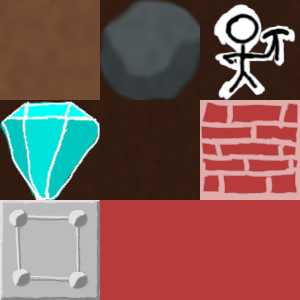
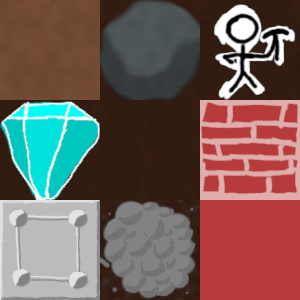
Added explosions when things hit rockford.

Changed region(s): [[0.33, 0.66, 0.69, 1.0]]

diff --git a/game_state.c b/game_state.c
@@ -65,6 +65,7 @@ void init_game(game_state *game, int width, int height, float zoom,
   game->textures[AIR] = load_sub_texture(game, AIR);
   game->textures[BRICK] = load_sub_texture(game, BRICK);
   game->textures[STEEL] = load_sub_texture(game, STEEL);
+  game->textures[DUST] = load_sub_texture(game, DUST);
 
 	// Rendering thing
   game->cam = create_camera(0, 0, width, height, 0, 0, 0.4f);
@@ -79,23 +80,42 @@ void destroy_game(game_state *game) {
   al_destroy_event_queue(game->queue);
 }
 
+static void kill_rockford(game_state *game) {
+	explode_at(game->curr_map.rockford_x, game->curr_map.rockford_y, game->curr_map);
+	// TODO:
+	// end_game(game->g);
+}
+
 static void apply_physics(int x, int y, game_state *game) {
   // If rock over rock -> rock over falls if possible
   // If rock over dirt -> rock stays
   // If rock over air -> rock moves down
   // If rock over rockford -> if rock in already in movement -> rockford dies ->
   // else -> rock stays
+	
+  // If we already changed current this frame we don't change it again.
+  if (get_block_property(x, y, HAS_CHANGED, game->curr_map)) {
+    return;
+  }
+
+	if (get_block_property(x, y, DOES_VANISH, game->curr_map)) {
+		set_block_at(x, y, AIR, game->curr_map);
+		set_block_property(x, y, HAS_CHANGED, game->curr_map);
+		return;
+	}
 
   // We only change blocks that have gravity.
   if (!get_block_property(x, y, HAS_GRAVITY, game->curr_map)) {
     return;
   }
-  // write_block(stderr, x, y, game->curr_map);
 
-  // If we already changed current this frame we don't change it again.
-  if (get_block_property(x, y, HAS_CHANGED, game->curr_map)) {
-    return;
-  }
+	if (game->curr_map.rockford_x == x &&
+			game->curr_map.rockford_y == y + 1 &&
+			get_block_property(x, y, IN_MOVEMENT, game->curr_map)) {
+		// Rockford is below and the current block is going to kill him :(
+		kill_rockford(game);
+		return;
+	}
 
   // If below don't collides we can move current down
   if (!get_block_property(x, y + 1, IT_COLLIDES, game->curr_map)) {
@@ -128,6 +148,7 @@ static void apply_physics(int x, int y, game_state *game) {
     return;
   }
 }
+
 void update_physics(game_state *game) {
   // We make the restriction that every map has a border of steel,
   // which don't need to be updated.

diff --git a/map.c b/map.c
@@ -13,6 +13,7 @@ char *block_name(block_type b) {
   case AIR: return "AIR";
   case BRICK: return "BRICK";
   case STEEL: return "STEEL";
+  case DUST: return "DUST";
   case NUM_BLOCKS: return "NUM_BLOCKS";
   }
   return "NOT A BLOCK";
@@ -41,6 +42,12 @@ void write_block(FILE *f, int x, int y, map m) {
 
   if (get_block_property(x, y, HAS_CHANGED, m))
     fprintf(f, "\tHAS_CHANGED\n");
+
+	if (get_block_property(x, y, UNBREAKABLE, m))
+    fprintf(f, "\tUNBREAKABLE\n");
+
+	if (get_block_property(x, y, DOES_VANISH, m))
+    fprintf(f, "\tDOES_VANISH\n");
 }
 
 /**
@@ -81,7 +88,10 @@ block create_block(block_type type) {
     b.properties |= IT_COLLIDES;
     break;
   case STEEL:
-    b.properties |= IT_COLLIDES | IS_UNSTABLE;
+    b.properties |= IT_COLLIDES | IS_UNSTABLE | UNBREAKABLE;
+    break;
+  case DUST:
+    b.properties |= IT_COLLIDES | IS_DIGGABLE | DOES_VANISH;
     break;
   default:
     fprintf(stderr, "ERROR: received weird block type \"%s\"\n",
@@ -145,6 +155,9 @@ map map_from_string(char *map_str) {
       case '%':
         m.board[y * m.width + x] = create_block(STEEL);
         break;
+      case '@':
+        m.board[y * m.width + x] = create_block(DUST);
+        break;
       default:
         fprintf(stderr, "Unexpected '%c' (0x%x) while reading a map.\n", c, c);
       }
@@ -170,6 +183,8 @@ static char block_char(block_type b) {
     return '#';
   case STEEL:
     return '%';
+  case DUST:
+    return '@';
   default:
     return '?';
   }
@@ -217,4 +232,15 @@ void move_rockford(int x_amount, int y_amount, map *m) {
   } else if (get_block_property(destx, desty, IS_PUSHABLE, *m)) {
     // TODO : if next block not collides push the block, maybe add random so it seems difficult to push.
   }
+}
+
+void explode_at(int x, int y, map m) {
+	for (int dx = -1; dx <= 1; dx++) {
+		for (int dy = -1; dy <= 1; dy++) {
+			if (!get_block_property(x + dx, y + dy, UNBREAKABLE, m)) {
+				set_block_at(x + dx, y + dy, DUST, m);
+				set_block_property(x + dx, y + dy, HAS_CHANGED, m);
+			}
+		}
+	}
 }

diff --git a/map.h b/map.h
@@ -6,17 +6,29 @@
 #define MAP_MAX_WIDTH 512  // in blocks, don't include newlines or null bytes
 #define MAP_MAX_HEIGHT 512
 
-typedef enum { DIRT, ROCK, ROCKFORD, DIAMOND, AIR, BRICK, STEEL, NUM_BLOCKS } block_type;
+typedef enum {
+	DIRT,
+	ROCK,
+	ROCKFORD,
+	DIAMOND,
+	AIR,
+	BRICK,
+	STEEL,
+	DUST,
+	NUM_BLOCKS
+} block_type;
 
 typedef enum {
-	HAS_GRAVITY = 0x1,    // Can be push down every update if nothing blocks it.
-	IT_COLLIDES = 0x2,    // Can prevent a block with gravity to fall.
-	IS_UNSTABLE = 0x4,    // In the case of a block with gravity is over it, if 
+	HAS_GRAVITY =   0x1,    // Can be push down every update if nothing blocks it.
+	IT_COLLIDES =   0x2,    // Can prevent a block with gravity to fall.
+	IS_UNSTABLE =   0x4,    // In the case of a block with gravity is over it, if 
 												// the above block slips to a side.
-	IN_MOVEMENT = 0x8,    // If movement have started.
-	IS_PUSHABLE = 0x10,   // If Rockford can push the block.
-	IS_DIGGABLE = 0x20,   // If Rockford can dig/collect the block.
-	HAS_CHANGED = 0x40,   // If the block changed this frame already.
+	IN_MOVEMENT =   0x8,    // If movement have started.
+	IS_PUSHABLE =  0x10,   // If Rockford can push the block.
+	IS_DIGGABLE =  0x20,   // If Rockford can dig/collect the block.
+	HAS_CHANGED =  0x40,   // If the block changed this frame already.
+	UNBREAKABLE =  0x80,   // If the block can be broke (exploded for example).
+	DOES_VANISH = 0x100,   // If the block can be broke (exploded for example).
 } block_property;
 
 typedef struct {
@@ -48,5 +60,7 @@ int get_block_property(int x, int y, block_property p, map m);
 block_type get_block_type(int x, int y, map m);
 
 void move_rockford(int x_amount, int y_amount, map *m);
+
+void explode_at(int x, int y, map m);
 
 #endif

diff --git a/input.c b/input.c
@@ -12,6 +12,7 @@
 void reset_input(input_controller *c) {
 	memset(c->key, 0, sizeof(c->key));
 }
+
 void process_input(input_controller *c, ALLEGRO_EVENT e) {
   switch (e.type) {
   case ALLEGRO_EVENT_KEY_DOWN:
